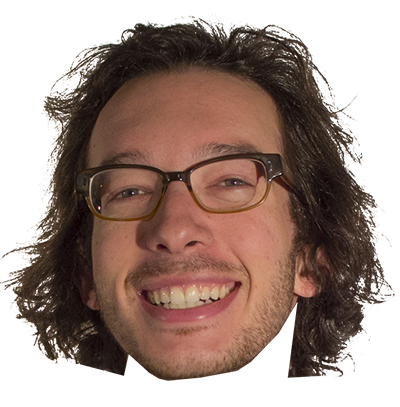
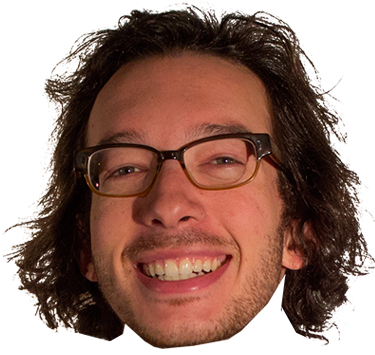
style tweaks

diff --git a/public/stylesheets/style.css b/public/stylesheets/style.css
@@ -8,9 +8,10 @@ h3 { font-size: 120%; }
 #main_content { position: relative; width: 100%; }
 #main_content .db_section { margin-bottom: 12px; }
 
-header h1 { font-size: 300%; }
+header { margin-bottom: 30px; }
+header h1 { color: #F30; font-size: 300%; }
 
-#scores .face { display: block; height: 407px; text-indent: -9999em; width: 400px; }
+#scores .face { display: block; height: 355px; text-indent: -9999em; width: 375px; }
 #scores .score { background-color: #F30; border-radius: 50px; bottom: 0; display: inline-block; font-size: 400%; font-weight: bold; padding: 30px; position: absolute; right: 20px; }
 #scores ul li { display: inline-block; padding-bottom: 30px; position: relative; }
 
@@ -26,8 +27,9 @@ header h1 { font-size: 300%; }
 #highfive_overlay h1 { color: #F30; font-size: 400%; text-transform: uppercase; }
 #highfive_overlay ul { bottom: 0; position: fixed; }
 #highfive_overlay ul li { display: inline-block; position: relative; }
-#highfive_overlay ul li .message { background-color: #FFF; border-radius: 20px; color: #222; padding: 20px; position: absolute; top: 50px; }
-#highfive_overlay ul li .message:after { border-color: transparent #FFF transparent transparent; border-style: solid; border-width: 0 15px 20px 0; bottom: -20px; content: ""; display: block; height: 0; max-width: 100px; position: absolute; right: 28px; width: 0; }
+#highfive_overlay ul li .message { background-color: #FFF; border-radius: 20px; color: #222; max-width: 100px; min-width: 50px; padding: 20px; position: absolute; top: 50px; -webkit-transform: scale(1.5); -webkit-transition: all .4s cubic-bezier(1.000, 0.000, 0.005, 1.435); -webkit-transition-timing-function: cubic-bezier(1.000, 0.000, 0.005, 1.435); }
+#highfive_overlay ul li .message:after { border-color: transparent #FFF transparent transparent; border-style: solid; border-width: 0 15px 20px 0; bottom: -20px; content: ""; display: block; height: 0; position: absolute; right: 28px; width: 0; }
+#highfive_overlay ul li .message.hidden { display: block; -webkit-transform: scale(0); }
 #highfive_overlay ul li .runner { height: 462px; text-indent: -9999em; width: 400px; }
 
 #highfive_overlay .adam .runner { background: url('/images/adam_run.gif') 0 0 no-repeat; }
